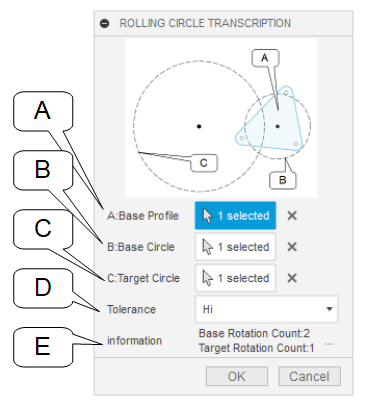
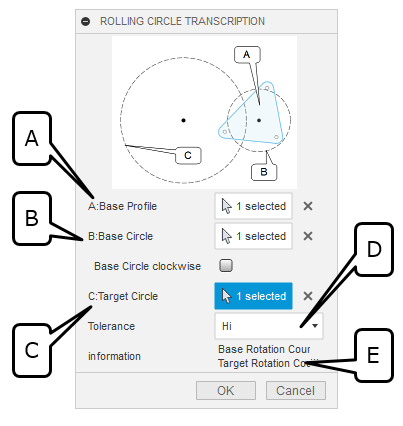
Add Reverse rotation option

diff --git a/RollingCircleTranscription/RCT_View.py b/RollingCircleTranscription/RCT_View.py
@@ -19,6 +19,9 @@ _selBaseInfo = ['selBase',l.sLng('B:Base Circle'),l.sLng('Select Base Circle'),
     ['SketchCircles']]
 _selBaseIpt :adsk.core.SelectionCommandInput.cast(None)
 
+_revBaseInfo = ['revBase',l.sLng('  Base Circle clockwise'),True,'',False]
+_revBaseIpt :adsk.core.BoolValueCommandInput.cast(None)
+
 _selTargetInfo = ['selTarget',l.sLng('C:Target Circle'),l.sLng('Select Target Circle'),
     ['SketchCircles']]
 _selTargetIpt :adsk.core.SelectionCommandInput.cast(None)
@@ -88,8 +91,11 @@ class RCT_View(Fusion360CommandBase):
             key =_dwnToleranceIpt.selectedItem.name
             tolerance :int = _dwnToleranceInfo[3][key]
 
+            global _revBaseIpt
             global _fact
-            surf = _fact.execute(tolerance)
+            surf = _fact.execute(
+                tolerance, _revBaseIpt.value)
+                
             if not surf:
                 return
 
@@ -134,6 +140,10 @@ class RCT_View(Fusion360CommandBase):
         _selBaseIpt.setSelectionLimits(0)
         [_selBaseIpt.addSelectionFilter(s) for s in _selBaseInfo[3]]
 
+        global _revBaseInfo, _revBaseIpt
+        _revBaseIpt = inputs.addBoolValueInput(
+            _revBaseInfo[0], _revBaseInfo[1], _revBaseInfo[2], _revBaseInfo[3], _revBaseInfo[4])
+
         global _selTargetInfo, _selTargetIpt
         _selTargetIpt = inputs.addSelectionInput(
             _selTargetInfo[0], _selTargetInfo[1], _selTargetInfo[2])
@@ -146,6 +156,7 @@ class RCT_View(Fusion360CommandBase):
         dwnItems = _dwnToleranceIpt.listItems
         dic = _dwnToleranceInfo[3]
         [dwnItems.add(key, True, '') for key in dic.keys()]
+
 
         global _stateInfo, _stateInfoIpt
         _stateInfoIpt = inputs.addStringValueInput(_stateInfo[0], _stateInfo[1], _stateInfo[2])

diff --git a/RollingCircleTranscription/RCT_Core.py b/RollingCircleTranscription/RCT_Core.py
@@ -130,6 +130,7 @@ class RCT_Factry():
     def execute(
         self,
         targetAngle :int,
+        revBase :bool,
         previewStep = 2
         ) -> adsk.core.Surface:
 
@@ -153,7 +154,7 @@ class RCT_Factry():
             baseSurf = tmpMgr.createFaceFromPlanarWires([wireBodies[0]])
 
             # target surface
-            wireBodies = tmpMgr.createWireFromCurves([self._targetCircle.geometry])
+            wireBodies = tmpMgr.createWireFromCurves([self._targetCircle.worldGeometry])
             targetSurf = tmpMgr.createFaceFromPlanarWires([wireBodies[0]])
 
             # target-base ratio
@@ -165,22 +166,24 @@ class RCT_Factry():
 
             count :int = int(abs(360 * targetCount / targetAngle))
             rad = math.radians(targetAngle)
+            if revBase:
+                rad = rad * -1
 
             # mat-base
             mat3D = adsk.core.Matrix3D
             baseMat :adsk.core.Matrix3D = mat3D.create()
             baseMat.setToRotation(
                 rad * ratio, 
-                self._baseCircle.geometry.normal, 
-                self._baseCircle.geometry.center)
+                self._baseCircle.worldGeometry.normal, 
+                self._baseCircle.worldGeometry.center)
 
             # mat-target
             targetMat :adsk.core.Matrix3D = mat3D.create()
             targetMat.setToRotation(
                 rad * -1,
-                self._targetCircle.geometry.normal,
-                self._targetCircle.geometry.center)
-
+                self._targetCircle.worldGeometry.normal,
+                self._targetCircle.worldGeometry.center)
+                
             # create target
             t = time.time()
 

diff --git a/RollingCircleTranscription/LanguageMessages.py b/RollingCircleTranscription/LanguageMessages.py
@@ -22,6 +22,7 @@ _sDict = {
     'Select Target Circle':'ターゲットサークルの選択',
     'Tolerance':'トレランス',
     'information':'情報',
+    '  Base Circle clockwise':'  ベースサークル時計回り',
 
     # RCT_Core
     'Base Profile':'ベースプロファイル',

diff --git a/README.md b/README.md
@@ -18,6 +18,7 @@ Please follow the instructions [here](https://knowledge.autodesk.com/support/fus
     ![Alt text](./resources/dialog_eng.png)
     + A (base profile) : the single profile of the source of the transcription.
     + B (Base Circle) : the circle from which the profile is to be transferred.
+        + Forward rotation is counterclockwise, and if checked, it will be generated clockwise.
     + C (target circle) : the circle to be transcribed.
         + In the ratio of the diameter of the target circle to the base circle,
         The number of revolutions of each other will be determined.
@@ -38,7 +39,7 @@ Please follow the instructions [here](https://knowledge.autodesk.com/support/fus
 
 ## Issue：
 - ~~Cumbersome to call (To add-in)~~
-- ~~English notation only (Make it multilingual)~~　English / Japanese only
+- ~~English notation only (Make it multilingual)~~ English / Japanese only
 - Reverse Rotation Support
 - Not supported for components
 - Support for multiple profiles in the base profile
@@ -80,6 +81,7 @@ MIT
     ![Alt text](./resources/dialog_jpn.png)
     + A(ベースプロファイル) : 転写元の単一のプロファイル。
     + B(ベースサークル) : 転写元の円。
+        + 正回転は反時計回りで、チェックを入れると時計回りで生成します。
     + C(ターゲットサークル) : 転写される円。
         + ベースサークルとターゲットサークルの直径の比率で,
         お互いの回転数が決定します。
@@ -100,7 +102,7 @@ MIT
 
 ## 問題：
 - ~~呼び出しが面倒 (アドイン化)~~
-- ~~英語表記のみ (多言語化)~~英語・日本語のみ
+- ~~英語表記のみ (多言語化)~~ 英語・日本語のみ
 - 逆回転対応
 - コンポーネントに対して未対応
 - ベースプロファイルを複数プロファイル対応

diff --git a/CHANGELOG.md b/CHANGELOG.md
@@ -2,6 +2,7 @@
 
 ## 0.0.2
 + Japanese support
++ Add Reverse rotation option
 
 ## 0.0.1
 + release
